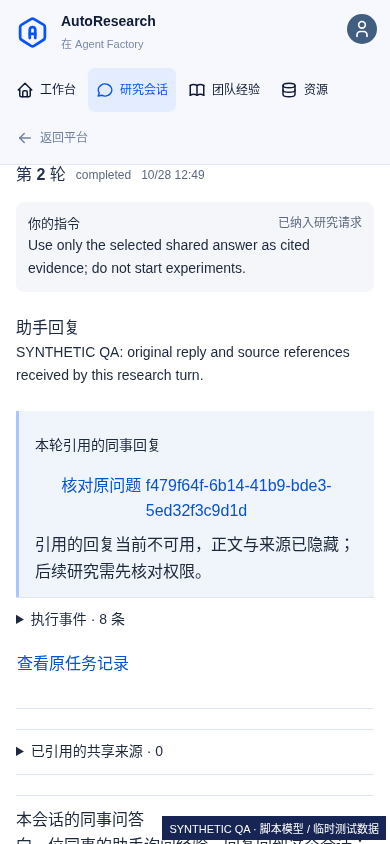
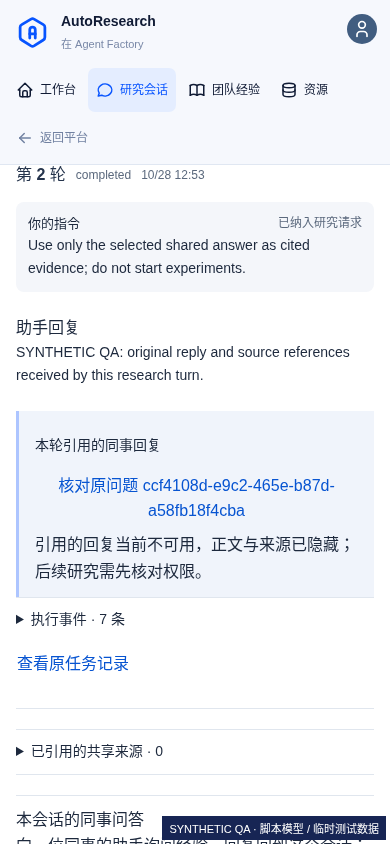
docs: freeze independent conversation acceptance and recovery evidence

Changed region(s): [[0.1538, 0.5545, 0.8615, 0.6161], [0.4923, 0.1848, 0.5231, 0.2156], [0.2462, 0.7085, 0.2769, 0.7393]]

diff --git a/openspec/changes/research-assistant-conversations/review.md b/openspec/changes/research-assistant-conversations/review.md
@@ -1,0 +1,50 @@
+# Independent review
+
+## Scope and conclusion
+
+**累计代码、简洁性及分层实测证据审查 PASS，可冻结交付 head 进入 CI。准确最终 head 的 CI/发布仍 pending，本记录不表示已经发布。**
+
+- Base：`0acb41e02ac9453bd8c5be751cecf13dc04ef02f`。
+- 产品 head：`66f39158a865916a6c2b4389ec9b9a37d442a402`；后端冻结提交 `59010b5219fbb7016582d831e09cae4dfd81de0b` 的字节未再变化。
+- `/root/compare_review` 审查完整累计 34 个已提交文件及随后恢复契约/使用文档；28 个产品及测试文件逐 SHA 对照作者冻结清单和独立测试快照一致。`/root/compare_review/hook_early_review` 另审全部 12 个前端文件及恢复反例。两位 reviewer 均未编写产品实现。
+- 方案 `ac041a3` 由另一非作者 `/root/context_capabilities` 审查。依赖 PR #152 的首次 Ready 拒绝没有被绕过；取得针对动作的新明确授权后已正常合入上述 base，tree 与已验 `9566a94f` 相同，本 reviewer 已本地核对。后续发布由协调者另行执行。
+
+本片只有人工 UI 发问、B 既有预授权 QA 运行、原问题接续及 A 下一轮采用。Agent 自主询问/通知/采用明确留给紧接续片，不把人工入口变成全局逐条审批。
+
+## Findings and fixes
+
+### P1：回复采用与协议取消锁序相反，已关闭
+
+原新路径持会话写锁后，由 `AssistantMessages.read` 获取 admission 锁；既有 `Store.reject_model_protocol` 先持 admission，再经取消回调获取会话写锁。作者把 13 个短写入口统一为 admission → session，模型调用和执行准入仍在事务外，没有新增锁框架。
+
+作者原回归检查安全终态任务；独审另用真实 PostgreSQL、真实消息读权和另一个仍活动的研究任务进行双线程 barrier 配对：取消方持 admission 时可以取得 session 锁，真实协议拒绝/取消完成，采用方随后保留正确原回复。只在测试内移除新增 guard 的负对照确实观察到相反锁顺序，随后释放锁，未故意留下死锁。回复生成在该独立反例中是明确的 SQL 合成夹具，不冒充模型问答。
+
+### P2：已提交消息被当成未发送，已关闭
+
+真实 QA 已准入后禁用成员，旧代码的最终投影返回普通 403，前端可能删除原请求指针。原失败日志保留。修复只把提交后的 HTTP 失败归为 `RESEARCH_QUESTION_ADMISSION_UNCONFIRMED`；恢复成员权限后，同 request 查询仍为原 task/allocation，不能重新派发。
+
+另一个真实 HTTP 反例发现预算关闭字符串经全局 handler 丢失具体码。现只在提交前转换五个已知原因，不扩大全局异常处理，不把数据库或未知错误猜成“未发送”。两类修复均经作者之外的真实 PG 复跑通过。
+
+### P2：迟到回执和无记录恢复，已关闭
+
+初审 45 个原组件测试通过，但两个独立反例失败：旧实例迟到错误删除新问题指针；预算关闭让无记录请求永久占住发送入口。现只由存活实例、匹配原 request/assistant 的回执清理指针，且只认精确提交前错误。
+
+网络失败后，仅原 request GET 返回精确 `404 + RESEARCH_QUESTION_NOT_FOUND` 才显示手动“按原请求再次发送”。复用不可变原 ID/助手/文本，不自动 POST、不生成新 ID；服务端既有 reservation 决定首次创建或只读原记录。正文沿现有 draft 清理边界保存，退出登录后只留下 opaque IDs；缺少原文时只能核对，不猜测或使用可编辑草稿替代。独立反例覆盖其他读取错误、原 POST 和重复 POST 双迟到、双击、跨挂载及退出清理。
+
+## Complete-diff checks
+
+原消息、预算和会话关联共享现有 metadata transaction；网络执行在提交后。并发/重复请求沿原 endpoint、allocation、task，不替换未知任务；旧独立问答不可改绑。内容事件消息仍由原 delivery 管理，Research 的手动接续不能丢弃 delivery 身份；原 trusted recovery 未改。
+
+采用回复只给下一轮的独立请求字段，不混入纠正。服务端绑定原问题、不可变回复和来源；即使来源列表为空仍核验双方成员。已采用副本、主请求、摘要和工具边界重新核权；读取时隐藏失授权引用，旧摘要不能恢复执行权限。回复属于非权威引用，不代替任务完成或实验成功。既有历史结果不被删除，已经送到模型的内容也不宣称可撤回。
+
+简洁性通过：复用原消息/QA、事务、预算、组件及存储清理规则，只增加 Research 关联表和局部 UI 状态；core 不导入 Research。未新增队列、harness、角色系统、通用重试层、兼容 CSS 层、demo 或模拟身份。无新依赖、凭据迁移及后端数据删除；必要错误转换均为窄边界。
+
+## Independent evidence and remaining gates
+
+- 独审临时 PostgreSQL：**80 tests，0 failures/errors/skips**，包括原子关联/回滚、原请求 UNKNOWN、旧事件恢复、真实 native QA 的提交后撤权、采用/摘要权限和既有会话回归。测试前后六个关键源码 SHA 一致，隔离 fixture 已清理。
+- UI 独审：原 45 项通过；修复后 18 项产品回归和 10 项独立反例共 **28 项通过**，其余未改文件保持初审字节。仅 happy-dom/API 模拟，不替代真实手机/桌面验收。
+- 证据位置（审查环境）：`/workspace/design-audit/research-assistant-conversations-20261028/independent-pg-review/`、`ui-review/fix-review.md`、`independent-final-code-manifest.json`。历史失败和修复后结果分别保留。
+- 另一独立 QA 在 `b74ba67bab3617fbefd3704646175d8fb7cb3936` 完成真实 PostgreSQL、临时密码登录、HTTPS/Chromium 桌面和手机链路；此提交仅增加文档/图片，产品等于 `66f39158`。主 reviewer 已读执行脚本、原结果及前后源码/构建清单，确认 B 浏览器离线由原生 QA 回答、A 明确选用后下一轮收到引用、成员/来源隔离、撤权隐藏、预算草稿、刷新和双击无新增调用。网络故障由测试显式阻止首次 POST 到达，专用 404 后手动重复保持原 payload；不冒充真实网络故障统计。TLS 是临时自签 loopback 夹具，不是生产证书。
+- 两次实际 OS 退出分别位于消息/关联已提交但未准入，以及原 task 已 RESERVED 但未 enqueue。重启后读/重复 POST 不执行；前者仅 B 明确接续创建一个原任务并产生一次脚本调用，后者保持原 task、null runId，连 B 的接续也不重放。没有 SQL 写终态。**RESERVED 与 UNKNOWN 不混称**；UNKNOWN/丢 ACK 由前述独立 PG 专项覆盖。这两次 OS 退出由 QA 执行，本 reviewer 审查脚本、退出 PID/代码和原始 before/after 结果，未额外复跑。
+- 对应证据：`qa/browser-1793191981388782114/` 与 `qa/restart-conversations-1793192070698788313/`。源码/构建前后稳定；已实际查看采用回复、手机字段错误、撤权隐藏及手动原请求恢复四张 PNG，明确标记 SYNTHETIC QA，无真实个人资料或秘密，适合随仓库交付。脚本 provider 不是实模研究证明。
+- 本片没有真实模型、GPU/SSH 或部署调用。最终 CI 仍须在准确交付 head 成功；不以本地测试、旧依赖 CI 或本审查替代。自主协作、容量、生产隔离及用户部署仍未覆盖。

diff --git a/openspec/changes/research-assistant-conversations/verification.md b/openspec/changes/research-assistant-conversations/verification.md
@@ -4,7 +4,7 @@
 
 本片交付人工从原研究会话向同事助手提问、B 既有 QA 离线执行、原问题核对/接续，以及 A 选择回复后开始下一轮。Agent 自主发问、私人回复通知和自动采用属于紧接续片，未在此片完成。
 
-基线：main `0acb41e02ac9453bd8c5be751cecf13dc04ef02f`。依赖 PR #152 的 full 40679087337 和 main 40688237438/40688238131 均通过，merge tree 与已验 head 一致。产品仍固定 Agno 3.1.0；无新依赖、产品 demo、身份或凭据迁移。最终 head、独立复审和 CI 在冻结后补充，本记录尚不是最终放行。
+基线：main `0acb41e02ac9453bd8c5be751cecf13dc04ef02f`。产品提交：`66f39158a865916a6c2b4389ec9b9a37d442a402`；后续交付提交仅增加文档与验收截图。依赖 PR #152 的 full 40679087337 和 main 40688237438/40688238131 均通过，merge tree 与已验 head 一致。Agno 仍固定 3.1.0；无新依赖、产品 demo、身份或凭据迁移。准确交付 head 的 full 与最终发布状态以 [PR #153](https://github.com/Guanzhw/agent-factory/pull/153) 的核验记录为准，尚未运行的 CI 不由本文件预先宣布通过。
 
 ## Evidence boundaries
 
@@ -13,9 +13,11 @@
 | PostgreSQL / 会话保护 | 作者回复采用及既有上下文回归 42 项通过；采用与取消锁序、撤权隐藏引用副本、主请求/摘要/工具拒绝、新旧请求兼容 | 完整 OS 安全隔离、真实研究质量 |
 | PostgreSQL / 消息关联 | 原子消息/预算/会话关联、并发幂等、事务回滚、丢 ACK、原任务 UNKNOWN 不重放、跨用户及旧独立问答不可改绑 | 普通查询能恢复执行或可更换原预算 |
 | 原生 QA | 实际 PostgreSQL、Agno 原生队列、脚本 provider：B 无浏览器参与地回答，A 原会话读取并采用；撤权后引用隐藏 | 真实模型或 GPU 成功 |
-| 审查反例修复 | 提交后投影失败及预算关闭错误的实际 HTTP 回归 14 项通过；原失败日志保留 | 原先失败不存在，或已经完成独立复跑 |
-| 前端 | 定向组件测试、完整 npm check 及生产/全部依赖 audit；结果与最终源码在冻结时核对 | 浏览器连续旅程已通过 |
-| 浏览器、独立复跑、CI | 正在验收，最终记录待补 | 发布、部署或全产品完成 |
+| 独立复跑 | 非作者真实 PG 80 项全部通过，包含原请求、锁序正/负对照、撤权、原任务 UNKNOWN 和提交后错误；修后 UI 18 项回归及 10 个独立反例通过 | 作者自审或真实模型研究成功 |
+| 前端/静态 | 完整 npm check 548 项在前一 UI 候选通过；随后最终 UI 55 项定向回归及 tsc/lint/build 通过。生产/全部 npm audit 各 0；Ruff 通过，Pyright 0 errors / 14 既有 Windows 源码 warnings | 未检查的依赖或完整安全都已通过 |
+| 浏览器 | 实际 PG、HTTPS/临时真实密码，桌面 1440×1000、手机 390×844 / 320px 无横溢。A 提问→B 浏览器离线回答→A 选择后下一轮采用；仅 3 次脚本 provider 请求；刷新/往返 0 新调用，双击 1 问题，撤权后新轮 409/0 调用 | 外部模型或生产 TLS兼容、全站易用性完成 |
+| 网络中断恢复 | 浏览器阻断第一次 POST 到服务端；专用 404 查询和刷新均不发送，用户双击手动重发仍使用同 requestId/助手/文本，仅一个 B 原任务。退出清正文的边界经组件独立反例验证 | 自动重试或丢失原文后可猜测发送 |
+| 真 OS 退出 | 两次实际退出/不同 PID 重启；消息/关联提交后尚无任务，只读和重复请求 0 派发，B 显式接续后 1 原任务/1 脚本调用；已有 RESERVED/task 无 runId 时始终原 task、0 调用。无 SQL 改任务状态 | 把 RESERVED 误称 UNKNOWN，或读取即恢复执行 |
 
 ## Findings retained
 
@@ -27,7 +29,15 @@
 
 ## Not verified
 
-本片没有调用真实 Go、外部模型或个人 GPU/SSH；没有新增持续凭据或修改网络安全配置。此前会话/摘要片的真实 Go 证据不能冒充本片的实模闭环。未验证 64GB / 30 活跃会话容量、研究结论质量、完整 OS 隔离、生产可信 TLS或用户环境部署。实际浏览器将使用隔离数据库、真实临时密码和脚本 provider，截图标注合成验收数据。
+本片没有调用真实 Go、外部模型或个人 GPU/SSH；没有新增持续凭据或修改网络安全配置。此前会话/摘要片的真实 Go 证据不能冒充本片的实模闭环。未验证 64GB / 30 活跃会话容量、研究结论质量、完整 OS 隔离、生产可信 TLS 或用户环境部署。浏览器使用隔离数据库、真实临时密码和脚本 provider；临时自签 HTTPS 仅用于本地测试，不是用户服务。
+
+GitHub 推送提示默认分支有 2 条 Dependabot 告警（critical / moderate）；现有集成读取告警详情返回 HTTP 403 `Resource not accessible by integration`，已停止该读取，未换渠道绕过。npm 两类审计为零，不能据此判断上述告警对象或影响，详情仍未核验。
+
+## Browser artifacts and failures
+
+[桌面采用回复](../../../docs/images/research-assistant-conversations/desktop-adopted-reply.png)、[手机字段错误](../../../docs/images/research-assistant-conversations/mobile-question-error.png)、[手机原请求恢复](../../../docs/images/research-assistant-conversations/mobile-original-request-not-found.png)、[撤权后的引用](../../../docs/images/research-assistant-conversations/mobile-revoked-copy.png) 均来自真实渲染，已逐张检查，无秘密；SYNTHETIC QA 为隔离测试数据标注。
+
+最终浏览器和 OS 退出时 Git head 为 `b74ba67`，28 个产品文件与 `66f3915` 一致，源码前后不变；研究 bundle 为 `index-fDf655dV.js` / `index-hi-wzxHk.css`。最初两次浏览器失败来自 QA 的受控 textarea 精确 label 定位，第三次来自按钮出现早于网络回调完成的等待时序；保留原失败，修测试定位/等待后通过，没有为通过修改产品。原生 QA 前两次准备失败来自隔离夹具漏配工作目录/命令权限，也保留原记录，未当成实模失败或绕过权限。
 
 ## Next slice
 

diff --git a/openspec/changes/research-assistant-conversations/tasks.md b/openspec/changes/research-assistant-conversations/tasks.md
@@ -18,11 +18,11 @@
 ## 4. 原会话与接收入口
 
 - [x] 4.1 前端作者复用目录/提问/原问题组件，完成会话发问及已发列表、B 收到的问题/接续、回复选择和下一轮提交；组件测试验证人工路径只发确认文本、未选不采用、读取不启动、重复按钮/原请求恢复、加载空态错误与任务 owner 停止边界；B 未配置/预算耗尽时 A 留草稿，B 通向既有设置，文案不得写成全局逐条审批。
-- [ ] 4.2 独立浏览器验证者用隔离两用户真实后端检查桌面手机连续路径：A 原会话提问→B 原消息/原任务→A 返回读取证据并明确继续；记录字段错误、未发送离开、后退前进/刷新、禁止操作及截图，区分真实 PostgreSQL、scripted/真实模型和未测边界。
+- [x] 4.2 独立浏览器验证者用隔离两用户真实后端检查桌面手机连续路径：A 原会话提问→B 原消息/原任务→A 返回读取证据并明确继续；记录字段错误、未发送离开、后退前进/刷新、禁止操作及截图，区分真实 PostgreSQL、scripted/真实模型和未测边界。
 
 ## 5. 集成与独立复审
 
-- [ ] 5.1 非作者对精确 base/head 完整累计 diff 审查权限、原请求/预算绑定、事务锁顺序、上下文撤回及简洁性；独立复跑至少提交前后中断、原 task UNKNOWN 不重放和来源撤回反例，记录问题、整改和复审结果，不以作者测试代替。
+- [x] 5.1 非作者对精确 base/head 完整累计 diff 审查权限、原请求/预算绑定、事务锁顺序、上下文撤回及简洁性；独立复跑至少提交前后中断、原 task UNKNOWN 不重放和来源撤回反例，记录问题、整改和复审结果，不以作者测试代替。
 - [ ] 5.2 Coordinator 运行仓库必要静态/依赖检查及准确 head CI，按 spec 对照验收并保存失败证据；交付 PR、base/head、实际浏览器截图、测试分类和未测范围，核对全部完成后才更新任务状态。
 
 ## Workflow follow-up
